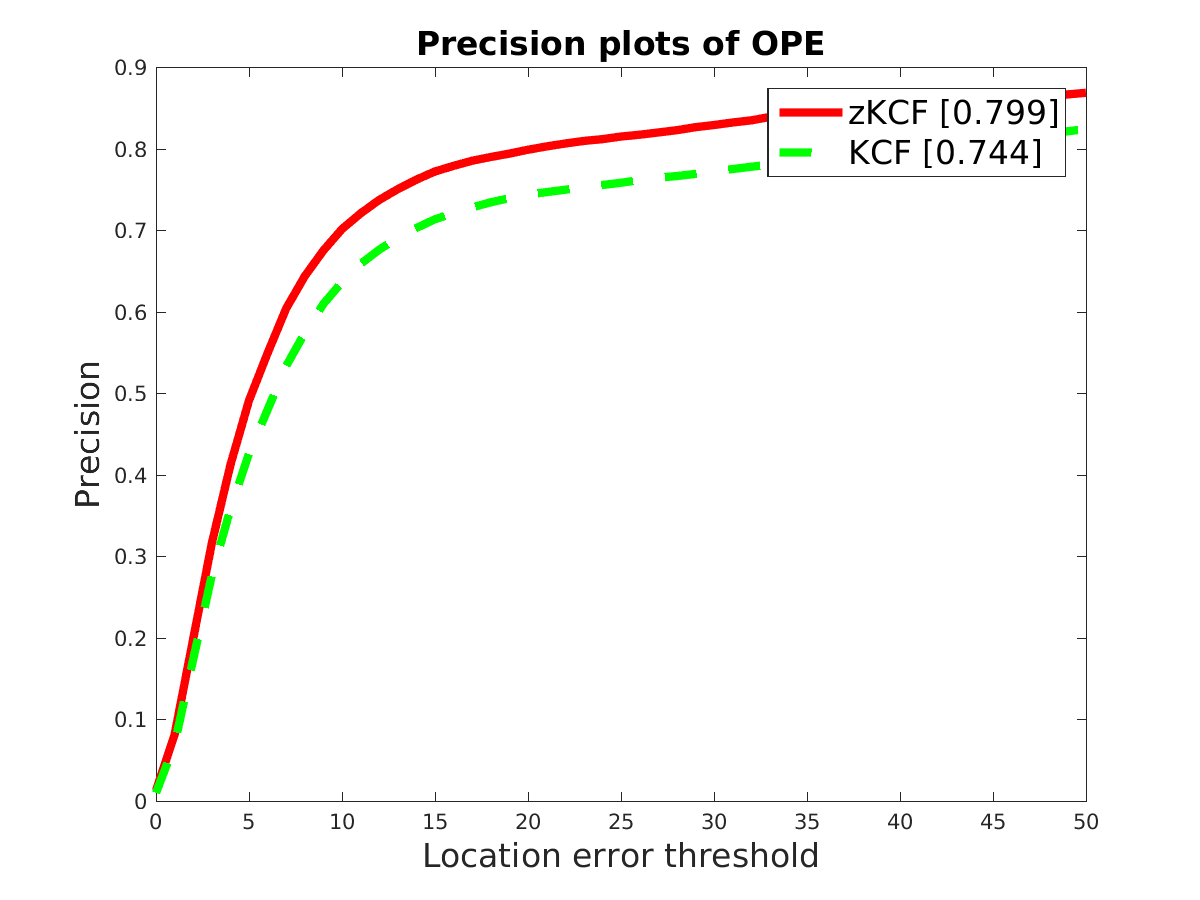
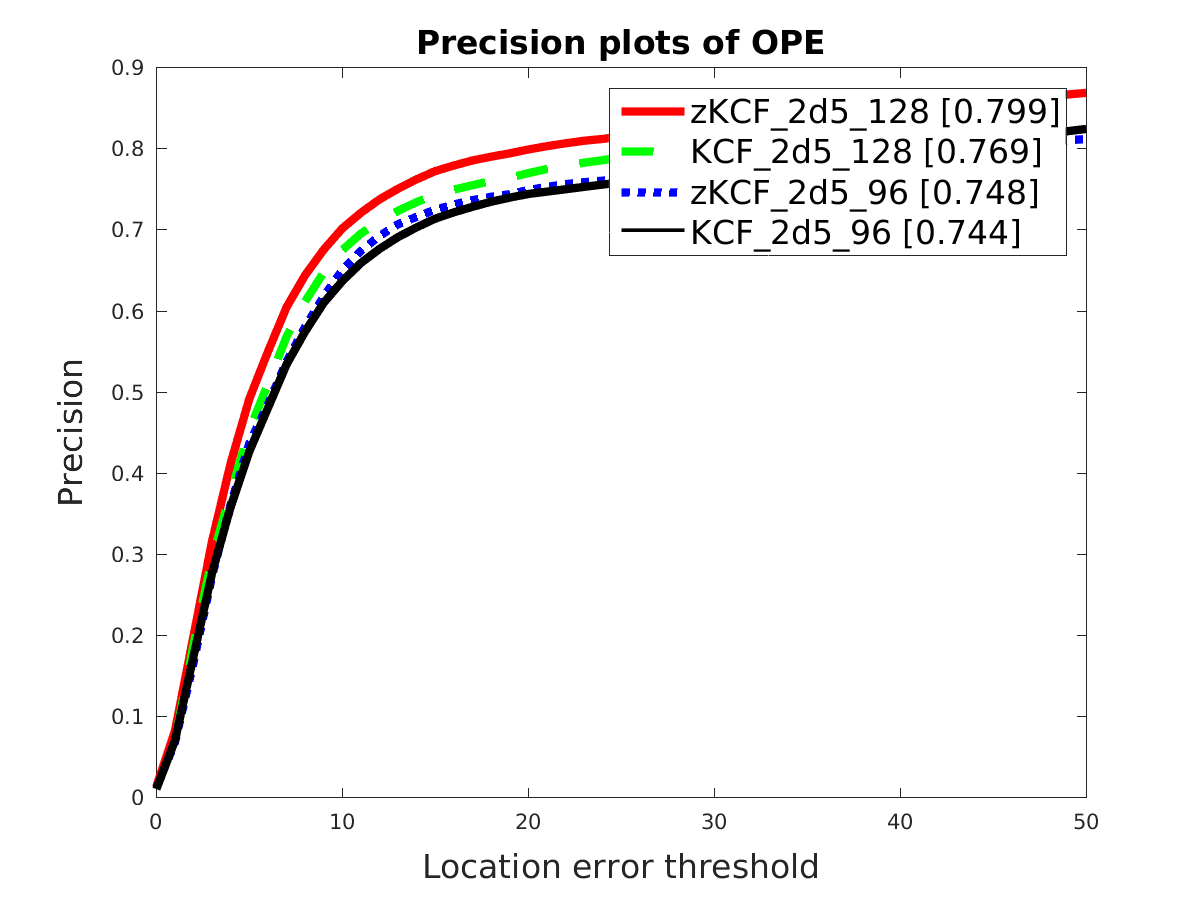
Update README

diff --git a/README.md b/README.md
@@ -3,7 +3,17 @@ zKCF is an extensible C++ implementation of KCF(Kernelized Correlation Filters) 
 This project is mainly based on the code of [KCFcpp](https://github.com/joaofaro/KCFcpp) and [KCF Matlab](http://www.robots.ox.ac.uk/~joao/circulant/)[1][2].   
 In zKCF, the implementation of KCF's main body, feature extractors and correlation kernels are seperated, implementation is refined and reorganized for code readability and extensibility. Moreover, with parameters tuning, zKCF obtain a slightly better performance and a faster speed.
 
-## Usage
+## Evaluation and Comparison
+The performance and speed of zKCF and its base KCFcpp are evaluated and compared with the same components of HoG feature and Gaussian kernel on CVPR13[3] tracking benchmark. Two sets of parameters are tested, which are `Padding` = 2.5, `TemplateLen` = 128 and `Padding` = 2.5, `TemplateLen` = 96. Since some implementation details are refined, zKCF obtains a better performance, with a same level of speed.
+| | |
+|:---------:|:----------:|
+|![](https://raw.githubusercontent.com/ixez/zKCF/master/assets/imgs/quality_plot_error_OPE_threshold.png)|![](https://raw.githubusercontent.com/ixez/zKCF/master/assets/imgs/quality_plot_overlap_OPE_AUC.png)|
+
+|   Tracker     |   zKCF_2d5_96     |   KCF_2d5_96  |   zKCF_2d5_128    |   KCF_2d5_128     |
+|   :---------: |   :----------:    |   :---------: |   :----------:    |   :---------:     |
+|   FPS         |   115.07          |   108.75      |   75.64           |   76.98           |
+
+## Demo Usage
 ### Compilation
 zKCF's dependencies include CMake(>3.0) and OpenCV(2/3).   
 Compilation follows an ordinary procedure of CMake project and is tested under Ubuntu 16.04.   
@@ -16,7 +26,7 @@ make -j
 Ubuntu 14.04 and older Linux OSs may have older CMake(2.x) and need to be updated. Windows should cooperate with Visual Studio and configure the dependencies. MacOS is expected to have a smooth compilation as under Ubuntu 16.04.
 
 ### Run
-The `main` function in `Run.cpp` is default for OTB[3] datasets and should be called as:
+The `main` function in `Run.cpp` is default for OTB[3][4] datasets and should be called as:
 ```bash
 ./zKCF seq_name /path/to/seq/ start_frame end_frame zero_padding ext bbox_x bbox_y bbox_width bbox_height preview
 ``` 
@@ -25,18 +35,19 @@ A `Basketball` sequence is prepared in  `assets/seqs` for demo. The demo is call
 ./zKCF car4 /home/zeke/Documents/OTB/CVPR13/Car4/img/ 1 659 4 jpg 69 50 107 87 1
 ``` 
 
-## Project Structure
+## Development
+### Project Structure
 * `src/Run.cpp`: `main` function.
 * `src(include)/KCF`: Main class of `zKCF`.
 * `include/Def.h`: Definitions of common constant variables.
 * `src(include)/Features`: Feature extractors. All implement the interface `IFeature.h`.
     * `RawFeature`: To use raw pixels as features.
-    * `HogFeature`: HOG feature extractor.
+    * `HogFeature`: HoG feature extractor.
 * `src(include)/Kernels`: Correlation kernels. All implement the interface `IKernel.h`.
     * `GaussianKernel`: Gaussian correlation kernel.
 * `src(include)/FkFactory`: Factory class, generating and configuring different features and kernels.
 
-## How to extend zKCF
+### How to extend zKCF
 To add a new feature or kernel,
 1. Put implementation codes in corresponding directories `src(include)/Features` and `src(include)/Kernels`.   
 2. Define a new `FeatureType` or `KernelType` in `include/Def.h`.   
@@ -57,3 +68,4 @@ Nevertheless, parameters can be initialized for different features and kernels i
 [1] Henriques, J. F., et al. "High-Speed Tracking with Kernelized Correlation Filters." IEEE Transactions on Pattern Analysis & Machine Intelligence 37.3(2015):583-596.   
 [2] Rui, Caseiro, P. Martins, and J. Batista. "Exploiting the circulant structure of tracking-by-detection with kernels." European Conference on Computer Vision Springer-Verlag, 2012:702-715.   
 [3] Wu, Yi, J. Lim, and M. Yang. "Online Object Tracking: A Benchmark Supplemental Material." 9.4(2013):2411-2418.   
+[4] Wu, Yi, Jongwoo Lim, and Ming-Hsuan Yang. "Object tracking benchmark." IEEE Transactions on Pattern Analysis and Machine Intelligence 37.9 (2015): 1834-1848.   
